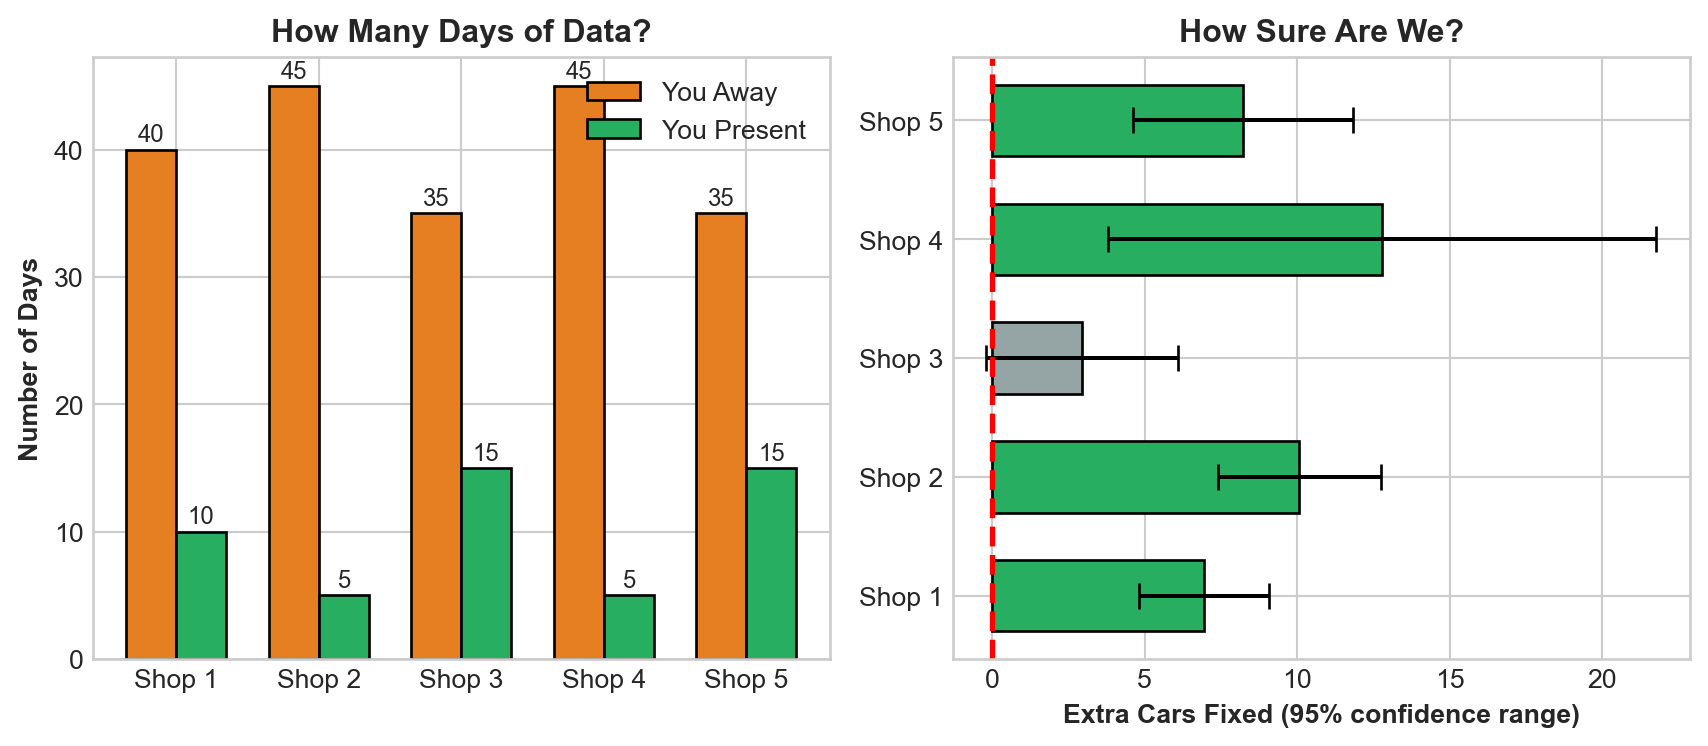
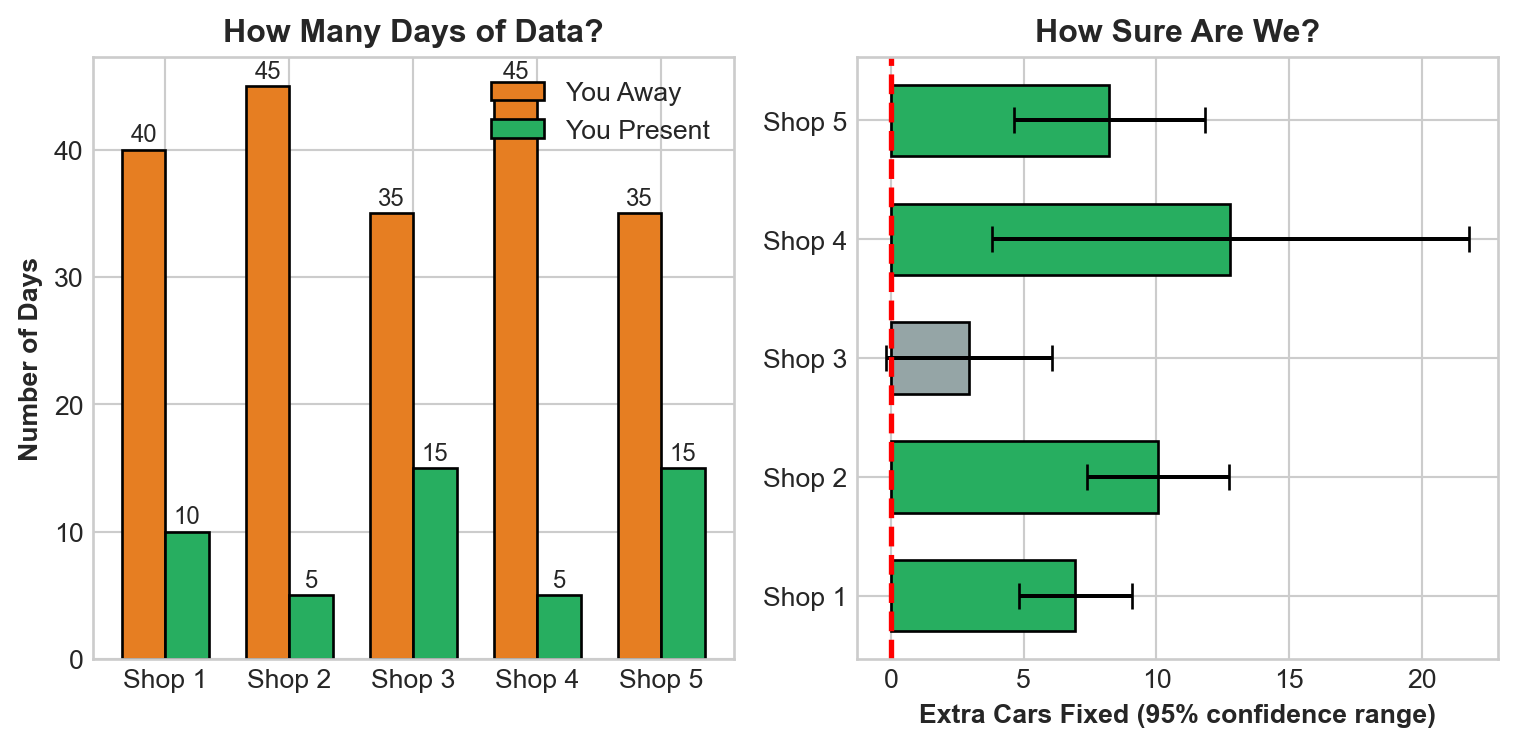
Render index.qmd

diff --git a/index.html b/index.html
@@ -103,7 +103,7 @@ ul.task-list li input[type="checkbox"] {
 <section id="what-the-data-shows" class="level2">
 <h2 class="anchored" data-anchor-id="what-the-data-shows">What the Data Shows</h2>
 <p>We analyzed 250 days of productivity data across your 5 shops. Here’s every single day plotted—you can see the pattern clearly:</p>
-<div id="dae95a84" class="cell" data-fig-height="6" data-fig-width="8" data-execution_count="2">
+<div id="ddfd586c" class="cell" data-fig-height="6" data-fig-width="8" data-execution_count="2">
 <div class="cell-output cell-output-display">
 <div class="quarto-figure quarto-figure-center">
 <figure class="figure">
@@ -119,7 +119,7 @@ ul.task-list li input[type="checkbox"] {
 <section id="d-view-shop-performance-landscape" class="level2">
 <h2 class="anchored" data-anchor-id="d-view-shop-performance-landscape">3D View: Shop Performance Landscape</h2>
 <p>Here’s an interactive 3D perspective showing all three dimensions at once—Shop ID, your presence status, and cars fixed:</p>
-<div id="b6567ea6" class="cell" data-fig-height="8" data-fig-width="10" data-execution_count="3">
+<div id="cf8a3e1a" class="cell" data-fig-height="8" data-fig-width="10" data-execution_count="3">
 <div class="cell-output cell-output-display">
 <div class="quarto-figure quarto-figure-center">
 <figure class="figure">
@@ -135,7 +135,7 @@ ul.task-list li input[type="checkbox"] {
 <section id="the-boss-boost-effect" class="level2">
 <h2 class="anchored" data-anchor-id="the-boss-boost-effect">The “Boss Boost” Effect</h2>
 <p>Here’s the real question: <strong>How many extra cars get fixed when you’re at each shop?</strong></p>
-<div id="82d16b85" class="cell" data-fig-height="5" data-fig-width="9" data-execution_count="4">
+<div id="6795218b" class="cell" data-fig-height="5" data-fig-width="9" data-execution_count="4">
 <div class="cell-output cell-output-display">
 <div class="quarto-figure quarto-figure-center">
 <figure class="figure">
@@ -192,11 +192,11 @@ ul.task-list li input[type="checkbox"] {
 <section id="how-confident-can-you-be" class="level2">
 <h2 class="anchored" data-anchor-id="how-confident-can-you-be">How Confident Can You Be?</h2>
 <p><strong>The honest truth:</strong> We only have 250 days of data, and you weren’t at every shop equally. Here’s what that means:</p>
-<div id="0a1f0f5a" class="cell" data-fig-height="4" data-fig-width="9" data-execution_count="5">
+<div id="f7e37953" class="cell" data-fig-height="4" data-fig-width="8" data-execution_count="5">
 <div class="cell-output cell-output-display">
 <div class="quarto-figure quarto-figure-center">
 <figure class="figure">
-<p><img src="index_files/figure-html/cell-6-output-1.png" width="854" height="373" class="figure-img"></p>
+<p><img src="index_files/figure-html/cell-6-output-1.png" width="758" height="373" class="figure-img"></p>
 <figcaption>Sample sizes and reliability of our estimates</figcaption>
 </figure>
 </div>
@@ -219,11 +219,11 @@ ul.task-list li input[type="checkbox"] {
 <section id="the-money-question" class="level2">
 <h2 class="anchored" data-anchor-id="the-money-question">The Money Question 💰</h2>
 <p>Let’s say each car fixed earns you <strong>$200 in profit</strong>. Here’s what different scheduling strategies could mean for your wallet:</p>
-<div id="d5a1a173" class="cell" data-fig-height="5" data-fig-width="8" data-execution_count="6">
+<div id="1f7f29b1" class="cell" data-fig-height="7" data-fig-width="9" data-execution_count="6">
 <div class="cell-output cell-output-display">
 <div class="quarto-figure quarto-figure-center">
 <figure class="figure">
-<p><img src="index_files/figure-html/cell-7-output-1.png" width="758" height="470" class="figure-img"></p>
+<p><img src="index_files/figure-html/cell-7-output-1.png" width="854" height="662" class="figure-img"></p>
 <figcaption>Projected monthly profit under different scheduling strategies</figcaption>
 </figure>
 </div>
@@ -304,7 +304,7 @@ ul.task-list li input[type="checkbox"] {
 </section>
 <section id="one-final-chart-your-projected-year" class="level3">
 <h3 class="anchored" data-anchor-id="one-final-chart-your-projected-year">One Final Chart: Your Projected Year</h3>
-<div id="0cf64f2b" class="cell" data-fig-height="5" data-fig-width="8" data-execution_count="7">
+<div id="32a7eb25" class="cell" data-fig-height="5" data-fig-width="8" data-execution_count="7">
 <div class="cell-output cell-output-display">
 <div class="quarto-figure quarto-figure-center">
 <figure class="figure">
